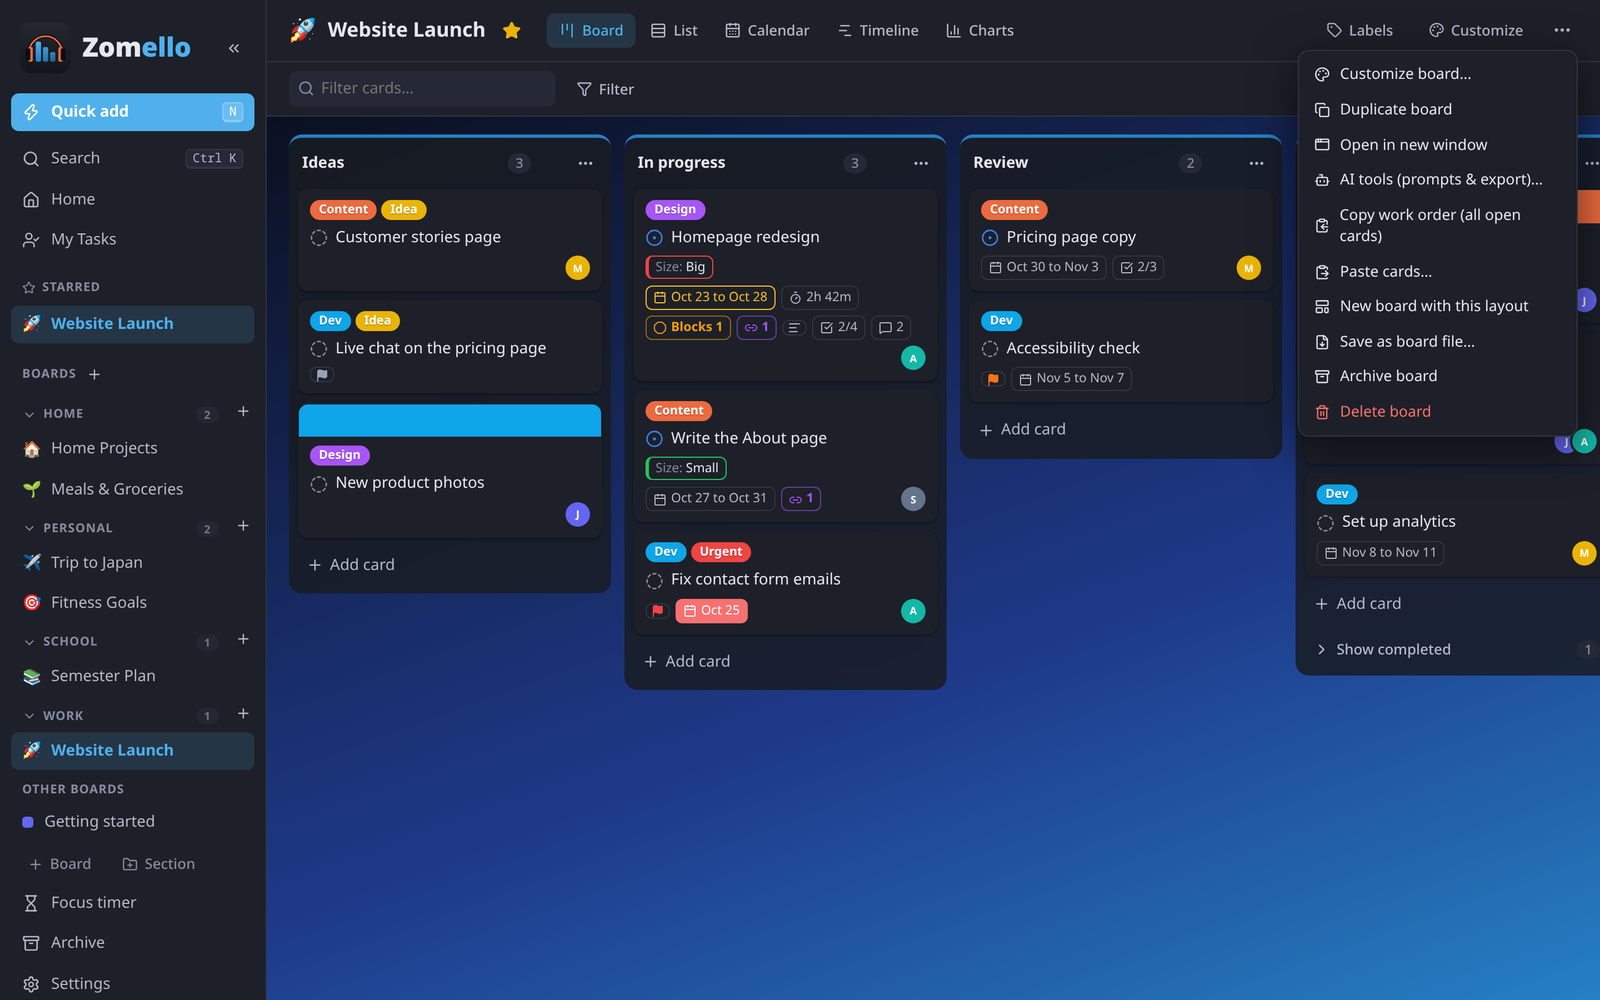
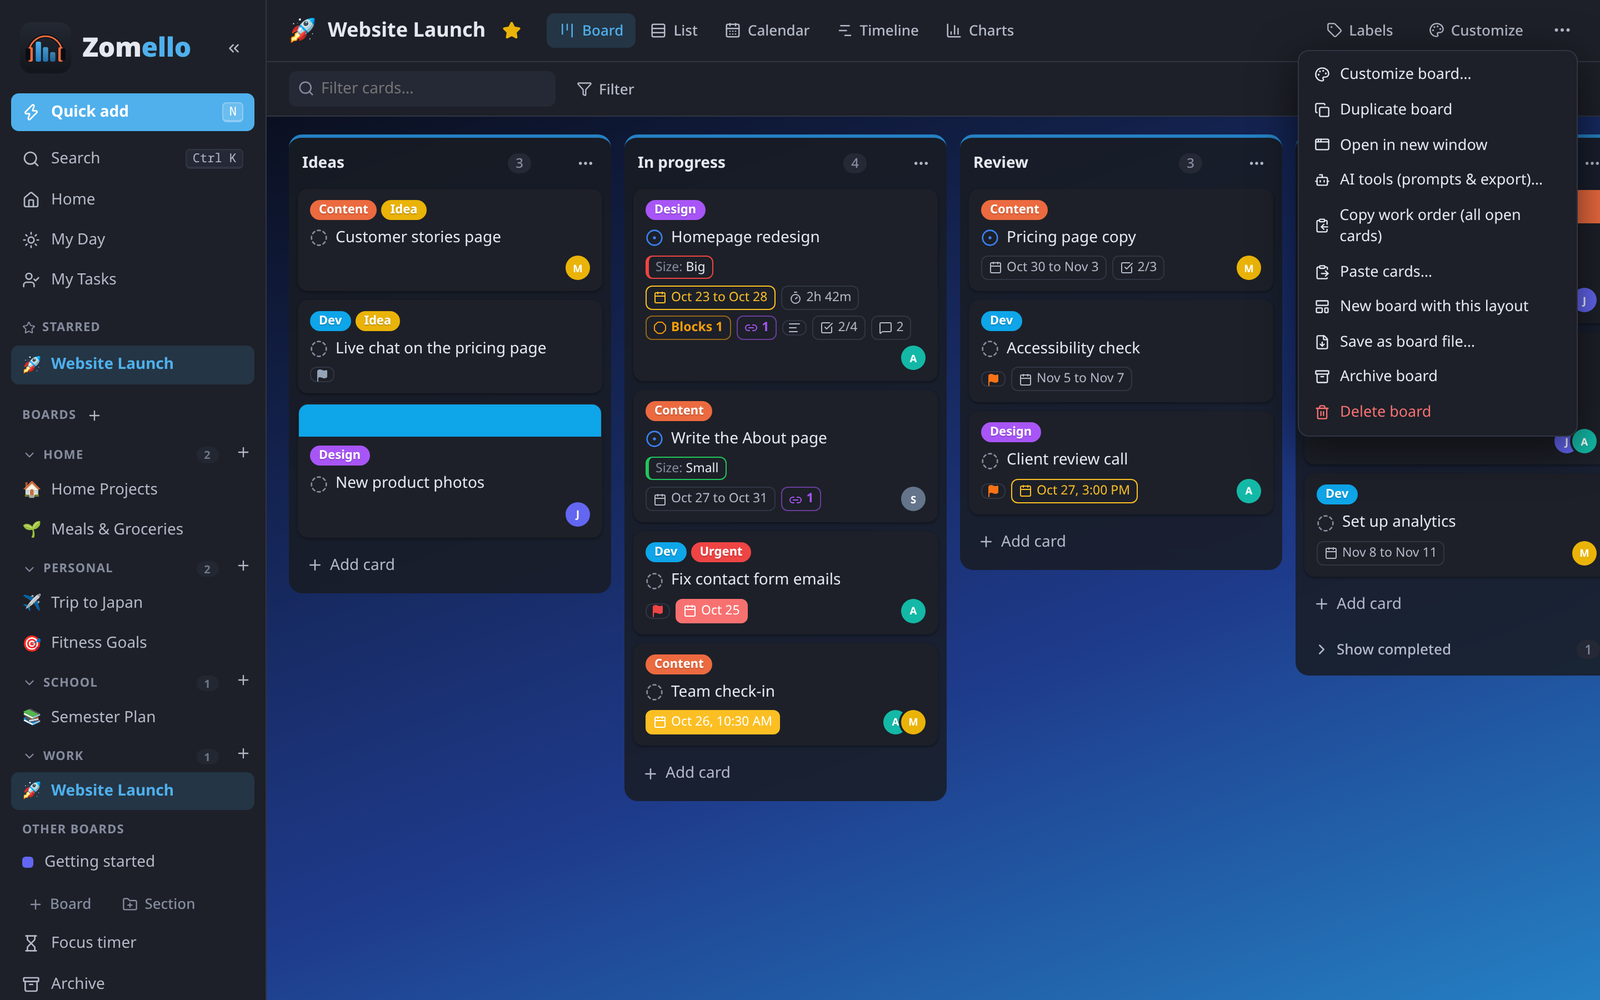
Zomello 0.5.4 in the guide: calendar Day/Week/Month and card times, My Day, moving cards between devices, device backups, checklist count; new pictures

diff --git a/site/zomello/device-backups.md b/site/zomello/device-backups.md
@@ -1,0 +1,54 @@
+---
+description: "Let your computer keep a copy of a phone's or tablet's boards, one a day for two weeks, and send it back after a reinstall or to a new device. Private boards can come along, locked with a password."
+---
+# Device backups
+
+Your computer can keep a copy of a phone's or tablet's boards, so a reinstall or a new phone doesn't lose them. New in version 0.5.4.
+
+## Turn it on (on the phone or tablet)
+
+1. Connect it to your computer first: [Your computer's boards on your phone](./phone-and-computer).
+2. In Zomello on the phone: **Settings > Servers**, under **Boards on your computer**, tick **Back up this phone's boards on my computer**.
+
+That's it. While the two are connected (same Wi‑Fi, both apps open), your computer saves a copy, one a day, and keeps the last two weeks.
+
+::: info What's in a backup
+The boards, buckets and cards, with everything on them: checklists, notes, dates, labels and links. **Attached files** stay on the phone and aren't in it.
+:::
+
+## Private boards, locked
+
+Boards marked **Private: only on this device** are left out, unless you choose otherwise:
+
+1. Tick **Include private boards, locked with a password**.
+2. Type a password (8 or more characters) twice, then **Save password**.
+
+They're then locked on the phone before they're sent (AES-256 encryption). Your computer stores the locked copy but can't open it. Only that password can.
+
+::: warning Keep the password somewhere safe
+Without it, the private boards in a backup can't be restored. Zomello can't recover it for you.
+:::
+
+## Restoring (on the computer)
+
+After reinstalling Zomello, or on a new phone:
+
+1. Pair the phone with your computer again and open Zomello on it.
+2. On the computer: **Settings > Phones & tablets > Device backups**.
+3. Pick the device, and which day's copy (the newest is first).
+4. **Send to a device…** and choose the phone. Its boards arrive as boards on the phone.
+5. If the backup has locked private boards, the phone asks for the backup password, then adds them.
+
+**Copy to this computer** adds copies of a backup's boards to the computer itself, to look something up or keep it there. The trash can deletes all of a device's backups.
+
+## Good to know
+
+- Restoring is done from the computer, so one person's phone can't fetch someone else's backup.
+- A backup is a copy: changing boards on the computer doesn't change it, and restoring adds boards (it never replaces what's already on the phone).
+- Backups are kept in Zomello's data folder on the computer, under `device-backups`.
+
+## Related
+
+- [Sharing between your devices](./sharing-between-devices)
+- [Data and backups](./data-and-backups)
+- [Your computer's boards on your phone](./phone-and-computer)

diff --git a/site/zomello/whats-new.md b/site/zomello/whats-new.md
@@ -4,6 +4,26 @@ description: What changed in each version of Zomello.
 
 # What's new
 
+## 0.5.4
+
+**Calendar**
+- **Day, Week and Month views.** Week and Day show the hours, like Outlook: drag a card to a time to schedule it, or double-click an empty time to add one.
+- **Start and end times on cards.** Next to a card's start and due dates, add a time (or leave it empty for all day).
+- **Cards that run over several days show as one bar** across those days, in Month and in Week.
+
+**My Day**
+- A new page (in the menu, or press D) with what to do today on every board: what's late, what's due or scheduled today (timed things in time order), and what you added yourself. Add any card from its menu with **Add to My Day**; added cards leave My Day at midnight. **Suggestions** offers what's coming up.
+
+**Your devices**
+- **Move or copy cards to another device:** a card's menu has **Move to device** and **Copy to device**, with the boards on your computer, your phone or a Zomello Server. A selection of cards goes together.
+- **Device backups:** a phone or tablet can have your computer keep a copy of its boards (Settings > Servers on the phone). After a reinstall, send it back from the computer (Settings > Phones & tablets > Device backups). Private boards can be included, locked with a password only you know.
+- When your computer's boards or sections change, the phone's menu shows it right away (before, it waited until you opened one of the computer's boards).
+
+**Also**
+- **Reminders on phones and tablets arrive even when Zomello is closed.** The app hands each card's reminder and the daily summary to the phone ahead of time.
+- Choose how many checklist items a card shows on the board (Customize > Show on cards).
+- Plainer wording all over the app, and the Help link opens the guide at docs.zombeatzmedia.com.
+
 ## 0.5.3
 
 **Share boards between your devices**

diff --git a/site/zomello/cards.md b/site/zomello/cards.md
@@ -12,7 +12,7 @@ A card is one task. Click it to open it; everything saves as you type, and **Esc
 - **Add:** **+ Add card** under a bucket. Press **Enter** to add it and start the next; **Esc** to stop.
 - **Move:** drag it to another bucket or position. On a phone, press and hold briefly, then drag.
 - **Complete:** click the circle next to its title.
-- **Right-click** (press and hold on a phone) for the card menu: progress, priority, labels, people, due date, repeat, reminders, timers, move, link, copy, template, archive and delete.
+- **Right-click** (press and hold on a phone) for the card menu: progress, **Add to My Day**, priority, labels, people, due date, repeat, reminders, timers, move (to a bucket, a board, or [another device](./moving-boards#moving-cards)), link, copy, template, archive and delete.
 
 ![The card menu](/img/zomello/card-menu.png)
 
@@ -25,7 +25,7 @@ A card is one task. Click it to open it; everything saves as you type, and **Esc
 | **Bucket** | Which column it's in |
 | **Progress** | Not started, In progress, Waiting (on someone else), On hold (paused on purpose), Completed |
 | **Priority** | Urgent, Important, Medium, Low. Every priority except Medium shows a colored flag on the card |
-| **Start date / Due date** | Cards show "in 3 days", "today" or "2 days late" |
+| **Start date / Due date** | Cards show "in 3 days", "today" or "2 days late". Once a date is set, you can add a time next to it (leave it empty for all day): the calendar's Week and Day views put the card at those hours |
 | **Assigned to** | People from **Settings > People**. Yours show on Home and in My Tasks |
 | **Labels** | Colored tags. **Labels** at the top of the board manages them |
 | **Description** | Longer details, with formatting (see below) |

diff --git a/site/zomello/views.md b/site/zomello/views.md
@@ -27,13 +27,19 @@ Every card in a table with its bucket, progress, priority, dates, people, labels
 
 ![Calendar view](/img/zomello/calendar.png)
 
-A month of cards by due date.
+Your cards by date, as a **Month**, a **Week** or a single **Day** (switch at the top; Zomello remembers your choice). **Today** jumps back to now.
 
-- Drag a card to another day to change its due date.
-- The **+** on a day adds a card due that day.
+- **Month:** each day lists its cards. A card that runs over several days (a start and a due date) is one bar across those days.
+![The Week view, with timed cards at their hours](/img/zomello/calendar-week.png)
+
+- **Week and Day:** an **All day** row at the top, then the hours. Cards with a time sit at their hours, side by side when they overlap; a red line marks the time now. Click a day's name in Week to open that day.
+- **Drag a card** to another day to change its date, or (in Week and Day) onto a time to schedule it then. It keeps its length; a card without times becomes an hour long. Drop it on the **All day** row to make it all day again.
+- **Add a card:** the **+** on a day in Month, or double-click an empty time (or the All day row) in Week and Day.
 - **Unscheduled** lists cards without a date: drag one onto a day to give it a date, or drag a card back to clear it.
 - Events from your own calendars (Google, Outlook, Apple) can appear here too: see [Calendar feeds](./calendar-feeds).
-- On a phone the month fills the screen and unscheduled cards are underneath.
+- On a phone the calendar fills the screen and unscheduled cards are underneath. Day works best on a phone.
+
+Day, Week and card times are new in version 0.5.4.
 
 ## Timeline
 

diff --git a/site/zomello/settings.md b/site/zomello/settings.md
@@ -41,6 +41,7 @@ Your card templates: rename or delete them. See [Templates](./templates).
 
 - **Zomello Servers:** add one by address, or **Find servers on this network**. Each opens in its own window on a computer, or under its own heading in the phone app's menu. See [Zomello Server](./server).
 - **Boards on your computer** (phone and tablet apps): connect to your computer, scan its QR code, and **Let my other devices see this phone's boards**. See [Your computer's boards on your phone](./phone-and-computer).
+- **Back up this phone's boards on my computer** (phone and tablet apps), optionally with private boards locked by a password. See [Device backups](./device-backups).
 
 ## Desktop app (computer only)
 
@@ -49,7 +50,7 @@ Your card templates: rename or delete them. See [Templates](./templates).
 
 ## Phones & tablets (computer only)
 
-Let your phones and tablets use this computer's boards: turn it on, allow it through the firewall, install the certificate on each device, pair devices, and manage paired devices. Step by step: [Your computer's boards on your phone](./phone-and-computer).
+Let your phones and tablets use this computer's boards: turn it on, allow it through the firewall, install the certificate on each device, pair devices, and manage paired devices. Step by step: [Your computer's boards on your phone](./phone-and-computer). **Device backups** lists the copies your phones and tablets asked this computer to keep: see [Device backups](./device-backups).
 
 ## Data & backups
 

diff --git a/site/zomello/home-and-search.md b/site/zomello/home-and-search.md
@@ -1,7 +1,7 @@
 ---
-description: "Home shows what's late, due today and coming up across every board. Plus My Tasks, search, Quick add, the focus timer, Help and undo."
+description: "Home shows what's late, due today and coming up across every board. Plus My Day, My Tasks, search, Quick add, the focus timer, Help and undo."
 ---
-# Home, My Tasks and search
+# Home, My Day, My Tasks and search
 
 ## Home
 
@@ -16,6 +16,20 @@ Home gathers what needs attention across every board:
 - **Boards:** every board by section, with how much is done and how much is late
 
 Click any task to open it, or a board to go there. On a computer, **H** goes Home from anywhere.
+
+## My Day
+
+![My Day](/img/zomello/my-day.png)
+
+What to do today, from every board, in one list:
+
+- **Late:** past their due date.
+- **Today:** due today, or running across today (a start date before and a due date after). Cards with a time come first, in time order.
+- **Added by you:** anything you add with **Add to My Day** (in a card's menu) or the box at the top. Added cards leave My Day at midnight, so each morning starts fresh.
+- **Done today:** what you finished today.
+- **Suggestions:** cards due or starting tomorrow, in progress, or important with no date. **+ My Day** adds one.
+
+It shows cards assigned to you (set who you are in **Settings > People**) or to no one. On a computer, **D** opens My Day. New in version 0.5.4.
 
 ## My Tasks
 

diff --git a/site/zomello/cards-in-depth.md b/site/zomello/cards-in-depth.md
@@ -20,7 +20,7 @@ When you complete a repeating card, Zomello makes the next one with the next due
 
 - **Reminder** (in the card) picks a date and time. Right-click > **Remind me** has shortcuts: **In 1 hour**, **In 3 hours**, **Tomorrow 9:00**, **Next Monday 9:00**.
 - **Settings > Reminders > Daily summary** sends one notification a day (at the time you choose) listing what's late and due today.
-- Notifications appear while Zomello is running. On a computer, turn on **Settings > Desktop app > Keep running in the tray** so they keep coming after you close the window. On a phone or tablet, they currently arrive while the app is open.
+- Notifications appear while Zomello is running. On a computer, turn on **Settings > Desktop app > Keep running in the tray** so they keep coming after you close the window. On a phone or tablet, they arrive even when the app is closed (from version 0.5.4; before that, only while it was open). The daily summary there counts your cards as they were when you last opened Zomello.
 - **Send a test notification** in Settings checks they work.
 
 ## Checklists and sub-tasks

diff --git a/site/zomello/moving-boards.md b/site/zomello/moving-boards.md
@@ -30,6 +30,16 @@ When your phone is connected (same Wi‑Fi, Zomello open on it), it shows in the
 Files attached to a phone's board live on the phone. Bringing that board over from the computer copies everything except those files. To move them too, do it from the phone (it sends them along).
 :::
 
+## Moving cards
+
+Single cards (or a selection) can go to a board on another device too. In the card's menu, choose **Move to device** or **Copy to device**, then the device and the board.
+
+- The cards go into the bucket with the same name on that board, or its first bucket. Labels come along by name (missing ones are added), and custom fields that match by name and type keep their values.
+- From a phone, you can send cards to your computer or a Zomello Server; from your computer, to a phone that's connected right now.
+- On a phone, Zomello then opens the other place and shows the board with the cards in it.
+
+New in version 0.5.4.
+
 ## Good to know
 
 - A move only removes the board from the old place once it has been safely handed over.

diff --git a/site/zomello/troubleshooting.md b/site/zomello/troubleshooting.md
@@ -54,7 +54,7 @@ If it's marked **Private: only on this device**, it stays where it was marked. O
 
 1. **Settings > Reminders:** **Notifications** is on; try **Send a test notification**.
 2. Your device allows notifications from Zomello (system settings).
-3. Zomello is running. On a computer, turn on **Settings > Desktop app > Keep running in the tray**. On a phone or tablet, reminders currently arrive while Zomello is open; they don't come while the app is closed.
+3. Zomello is running. On a computer, turn on **Settings > Desktop app > Keep running in the tray**. On a phone or tablet, open Zomello once after setting a reminder, so it can hand it to the phone; from version 0.5.4 it then arrives even when the app is closed. Also check that the phone allows notifications from Zomello (and, on Android, that battery saving doesn't stop it).
 
 ## Servers
 

diff --git a/site/zomello/customize-board.md b/site/zomello/customize-board.md
@@ -43,7 +43,7 @@ For each kind of detail, choose **Hidden**, **Icon** (a small symbol or count) o
 | **Files & links** | Count | File names |
 | **Time tracked** | Total | Total and estimate |
 
-**Hide ticked checklist items on cards** keeps finished steps out of the way when the checklist shows details. A single bucket can override all of this from its menu (**Card display…**, **Ticked checklist items**).
+**Hide ticked checklist items on cards** keeps finished steps out of the way when the checklist shows details, and **Checklist items shown on a card** sets how many show before "+3 more" (3 to 25, or All; 6 unless you change it). A single bucket can override all of this from its menu (**Card display…**, **Ticked checklist items**).
 
 ## Card details window
 

diff --git a/site/zomello/sharing-between-devices.md b/site/zomello/sharing-between-devices.md
@@ -24,7 +24,7 @@ On your other device, open your computer's boards. The menu shows each other dev
 
 Any board can be kept to one device: open its menu (right-click, or press and hold) and choose **Private: only on this device**. A small lock shows next to it.
 
-- A private board on a phone is never sent to your computer or your other devices.
+- A private board on a phone is never sent to your computer or your other devices. The one exception is if you choose to include private boards in [device backups](./device-backups). They then travel locked with a password your computer can't open.
 - A private board on your computer never shows on your phones.
 
 Use it for anything personal, or when several people share a computer.

diff --git a/site/zomello/data-and-backups.md b/site/zomello/data-and-backups.md
@@ -29,4 +29,4 @@ On a server, the data lives in the server's data folder (or Docker volume), with
 
 ## Before uninstalling a phone app
 
-Everything on the phone is deleted with the app. Move the boards you want to your computer first ([Moving boards between devices](./moving-boards)), or save them as [board files](./board-files).
+Everything on the phone is deleted with the app. Move the boards you want to your computer first ([Moving boards between devices](./moving-boards)), or save them as [board files](./board-files). With [device backups](./device-backups) turned on, your computer already has a copy to send back after you reinstall.
